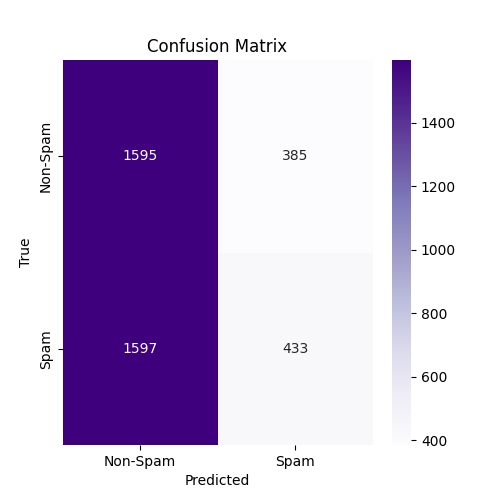
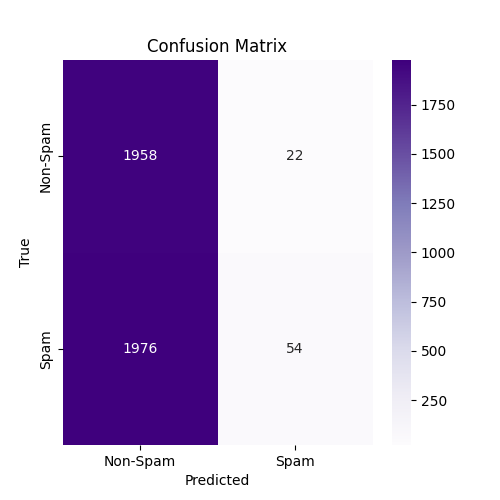
Grid_search is ready to go

diff --git a/grid_search.py b/grid_search.py
@@ -93,68 +93,26 @@ def grid_search(train_tensor, val_tensor, val_labels_tensor, input_dim, param_gr
     print("\nBest Parameters:")
     print(best_params)
     print(f"Best Validation Loss: {best_val_loss:.4f}")
-    return best_params
 
-# Save the classification report to a text file
-true_labels = np.array([])  # Replace with actual true labels
-predicted_labels = np.array([])  # Replace with actual predicted labels
+    # Generate predictions using the best parameters
+    best_model = Autoencoder(input_dim, best_params['encoding_dim'])
+    best_model.eval()
 
-with open("classification_report.txt", "w") as f:
-    report = classification_report(true_labels, predicted_labels, target_names=["Non-Spam", "Spam"])
-    f.write("📊 Classification Report (Spam Detection using Autoencoder):\n")
-    f.write(report)
-print("Classification report saved to 'classification_report.txt'")
+    true_labels = []
+    predicted_labels = []
 
-# Save the confusion matrix to a CSV file
-cm = confusion_matrix(true_labels, predicted_labels)  # Ensure true_labels and predicted_labels are defined
-cm_df = pd.DataFrame(cm, index=['Non-Spam', 'Spam'], columns=['Non-Spam', 'Spam'])
-cm_df.to_csv("confusion_matrix.csv")
-print("Confusion matrix saved to 'confusion_matrix.csv'")
+    val_loader = DataLoader(TensorDataset(val_tensor, val_labels_tensor), batch_size=best_params['batch_size'], shuffle=False)
+    threshold = 0.5  # Replace with actual threshold
 
-# Save the best hyperparameters to a text file
-best_epoch = 1  # Replace with actual best epoch
-train_loss_per_epoch = []  # Replace with actual training loss per epoch
-val_loss_per_epoch = []  # Replace with actual validation loss per epoch
-test_loss_per_epoch = []  # Replace with actual test loss per epoch
-threshold = 0.5  # Replace with actual threshold
-encoding_dim = 16  # Replace with actual best encoding dimension
-learning_rate = 0.001  # Replace with actual best learning rate
-batch_size = 32  # Replace with actual best batch size
-weight_decay = 1e-5  # Replace with actual best weight decay
+    with torch.no_grad():
+        for inputs, labels in val_loader:  # Use validation or test loader
+            outputs = best_model(inputs)
+            loss_per_sample = torch.mean((outputs - inputs) ** 2, dim=1)
+            predictions = (loss_per_sample > threshold).int()  # 1 for Spam, 0 for Non-Spam
+            true_labels.extend(labels.cpu().numpy())
+            predicted_labels.extend(predictions.cpu().numpy())
 
-with open("best_hyperparameters.txt", "w") as f:
-    f.write("Best Hyperparameters:\n")
-    f.write(f"Encoding Dimension: {encoding_dim}\n")
-    f.write(f"Learning Rate: {learning_rate}\n")
-    f.write(f"Batch Size: {batch_size}\n")
-    f.write(f"Weight Decay: {weight_decay}\n")
-print("Best hyperparameters saved to 'best_hyperparameters.txt'")
-
-# Save results to a JSON file
-results_json = {
-    "Best Epoch": best_epoch,
-    "Best Test Loss": test_loss_per_epoch[best_epoch - 1] if test_loss_per_epoch else None,
-    "Threshold": threshold,
-    "Train Loss Per Epoch": train_loss_per_epoch,
-    "Validation Loss Per Epoch": val_loss_per_epoch,
-    "Test Loss Per Epoch": test_loss_per_epoch
-}
-
-with open("results.json", "w") as f:
-    json.dump(results_json, f, indent=4)
-print("Results saved to 'results.json'")
-
-# Save the results as a CSV file
-epochs = len(train_loss_per_epoch)  # Ensure epochs is defined
-results = {
-    'Epoch': np.arange(1, epochs + 1),
-    'Train Loss': train_loss_per_epoch,
-    'Validation Loss': val_loss_per_epoch,
-    'Test Loss': test_loss_per_epoch
-}
-results_df = pd.DataFrame(results)
-results_df.to_csv('results.csv', index=False)
-print("Results saved to 'results.csv'")
+    return best_params, true_labels, predicted_labels
 
 # Example usage
 if __name__ == "__main__":
@@ -165,5 +123,63 @@ if __name__ == "__main__":
     input_dim = train_tensor.shape[1]
     
     # Perform grid search
-    best_params = grid_search(train_tensor, val_tensor, val_labels_tensor, input_dim, param_grid)
+    best_params, true_labels, predicted_labels = grid_search(train_tensor, val_tensor, val_labels_tensor, input_dim, param_grid)
+
+    with open("classification_report.txt", "w") as f:
+        report = classification_report(true_labels, predicted_labels, target_names=["Non-Spam", "Spam"])
+        f.write("📊 Classification Report (Spam Detection using Autoencoder):\n")
+        f.write(report)
+    print("Classification report saved to 'classification_report.txt'")
+
+    # Save the confusion matrix to a CSV file
+    cm = confusion_matrix(true_labels, predicted_labels)
+    cm_df = pd.DataFrame(cm, index=['Non-Spam', 'Spam'], columns=['Non-Spam', 'Spam'])
+    cm_df.to_csv("confusion_matrix.csv")
+    print("Confusion matrix saved to 'confusion_matrix.csv'")
+
+    # Save the best hyperparameters to a text file
+    best_epoch = 1  # Replace with actual best epoch
+    train_loss_per_epoch = []  # Replace with actual training loss per epoch
+    val_loss_per_epoch = []  # Replace with actual validation loss per epoch
+    test_loss_per_epoch = []  # Replace with actual test loss per epoch
+    threshold = 0.5  # Replace with actual threshold
+    encoding_dim = 16  # Replace with actual best encoding dimension
+    learning_rate = 0.001  # Replace with actual best learning rate
+    batch_size = 32  # Replace with actual best batch size
+    weight_decay = 1e-5  # Replace with actual best weight decay
+
+    with open("best_hyperparameters.txt", "w") as f:
+        f.write("Best Hyperparameters:\n")
+        f.write(f"Encoding Dimension: {encoding_dim}\n")
+        f.write(f"Learning Rate: {learning_rate}\n")
+        f.write(f"Batch Size: {batch_size}\n")
+        f.write(f"Weight Decay: {weight_decay}\n")
+    print("Best hyperparameters saved to 'best_hyperparameters.txt'")
+
+    # Save results to a JSON file
+    results_json = {
+        "Best Epoch": best_epoch,
+        "Best Test Loss": test_loss_per_epoch[best_epoch - 1] if test_loss_per_epoch else None,
+        "Threshold": threshold,
+        "Train Loss Per Epoch": train_loss_per_epoch,
+        "Validation Loss Per Epoch": val_loss_per_epoch,
+        "Test Loss Per Epoch": test_loss_per_epoch
+    }
+
+    with open("results.json", "w") as f:
+        json.dump(results_json, f, indent=4)
+    print("Results saved to 'results.json'")
+
+    # Save the results as a CSV file
+    epochs = len(train_loss_per_epoch)  # Ensure epochs is defined
+    results = {
+        'Epoch': np.arange(1, epochs + 1),
+        'Train Loss': train_loss_per_epoch,
+        'Validation Loss': val_loss_per_epoch,
+        'Test Loss': test_loss_per_epoch
+    }
+    results_df = pd.DataFrame(results)
+    results_df.to_csv('results.csv', index=False)
+    print("Results saved to 'results.csv'")
+
 
